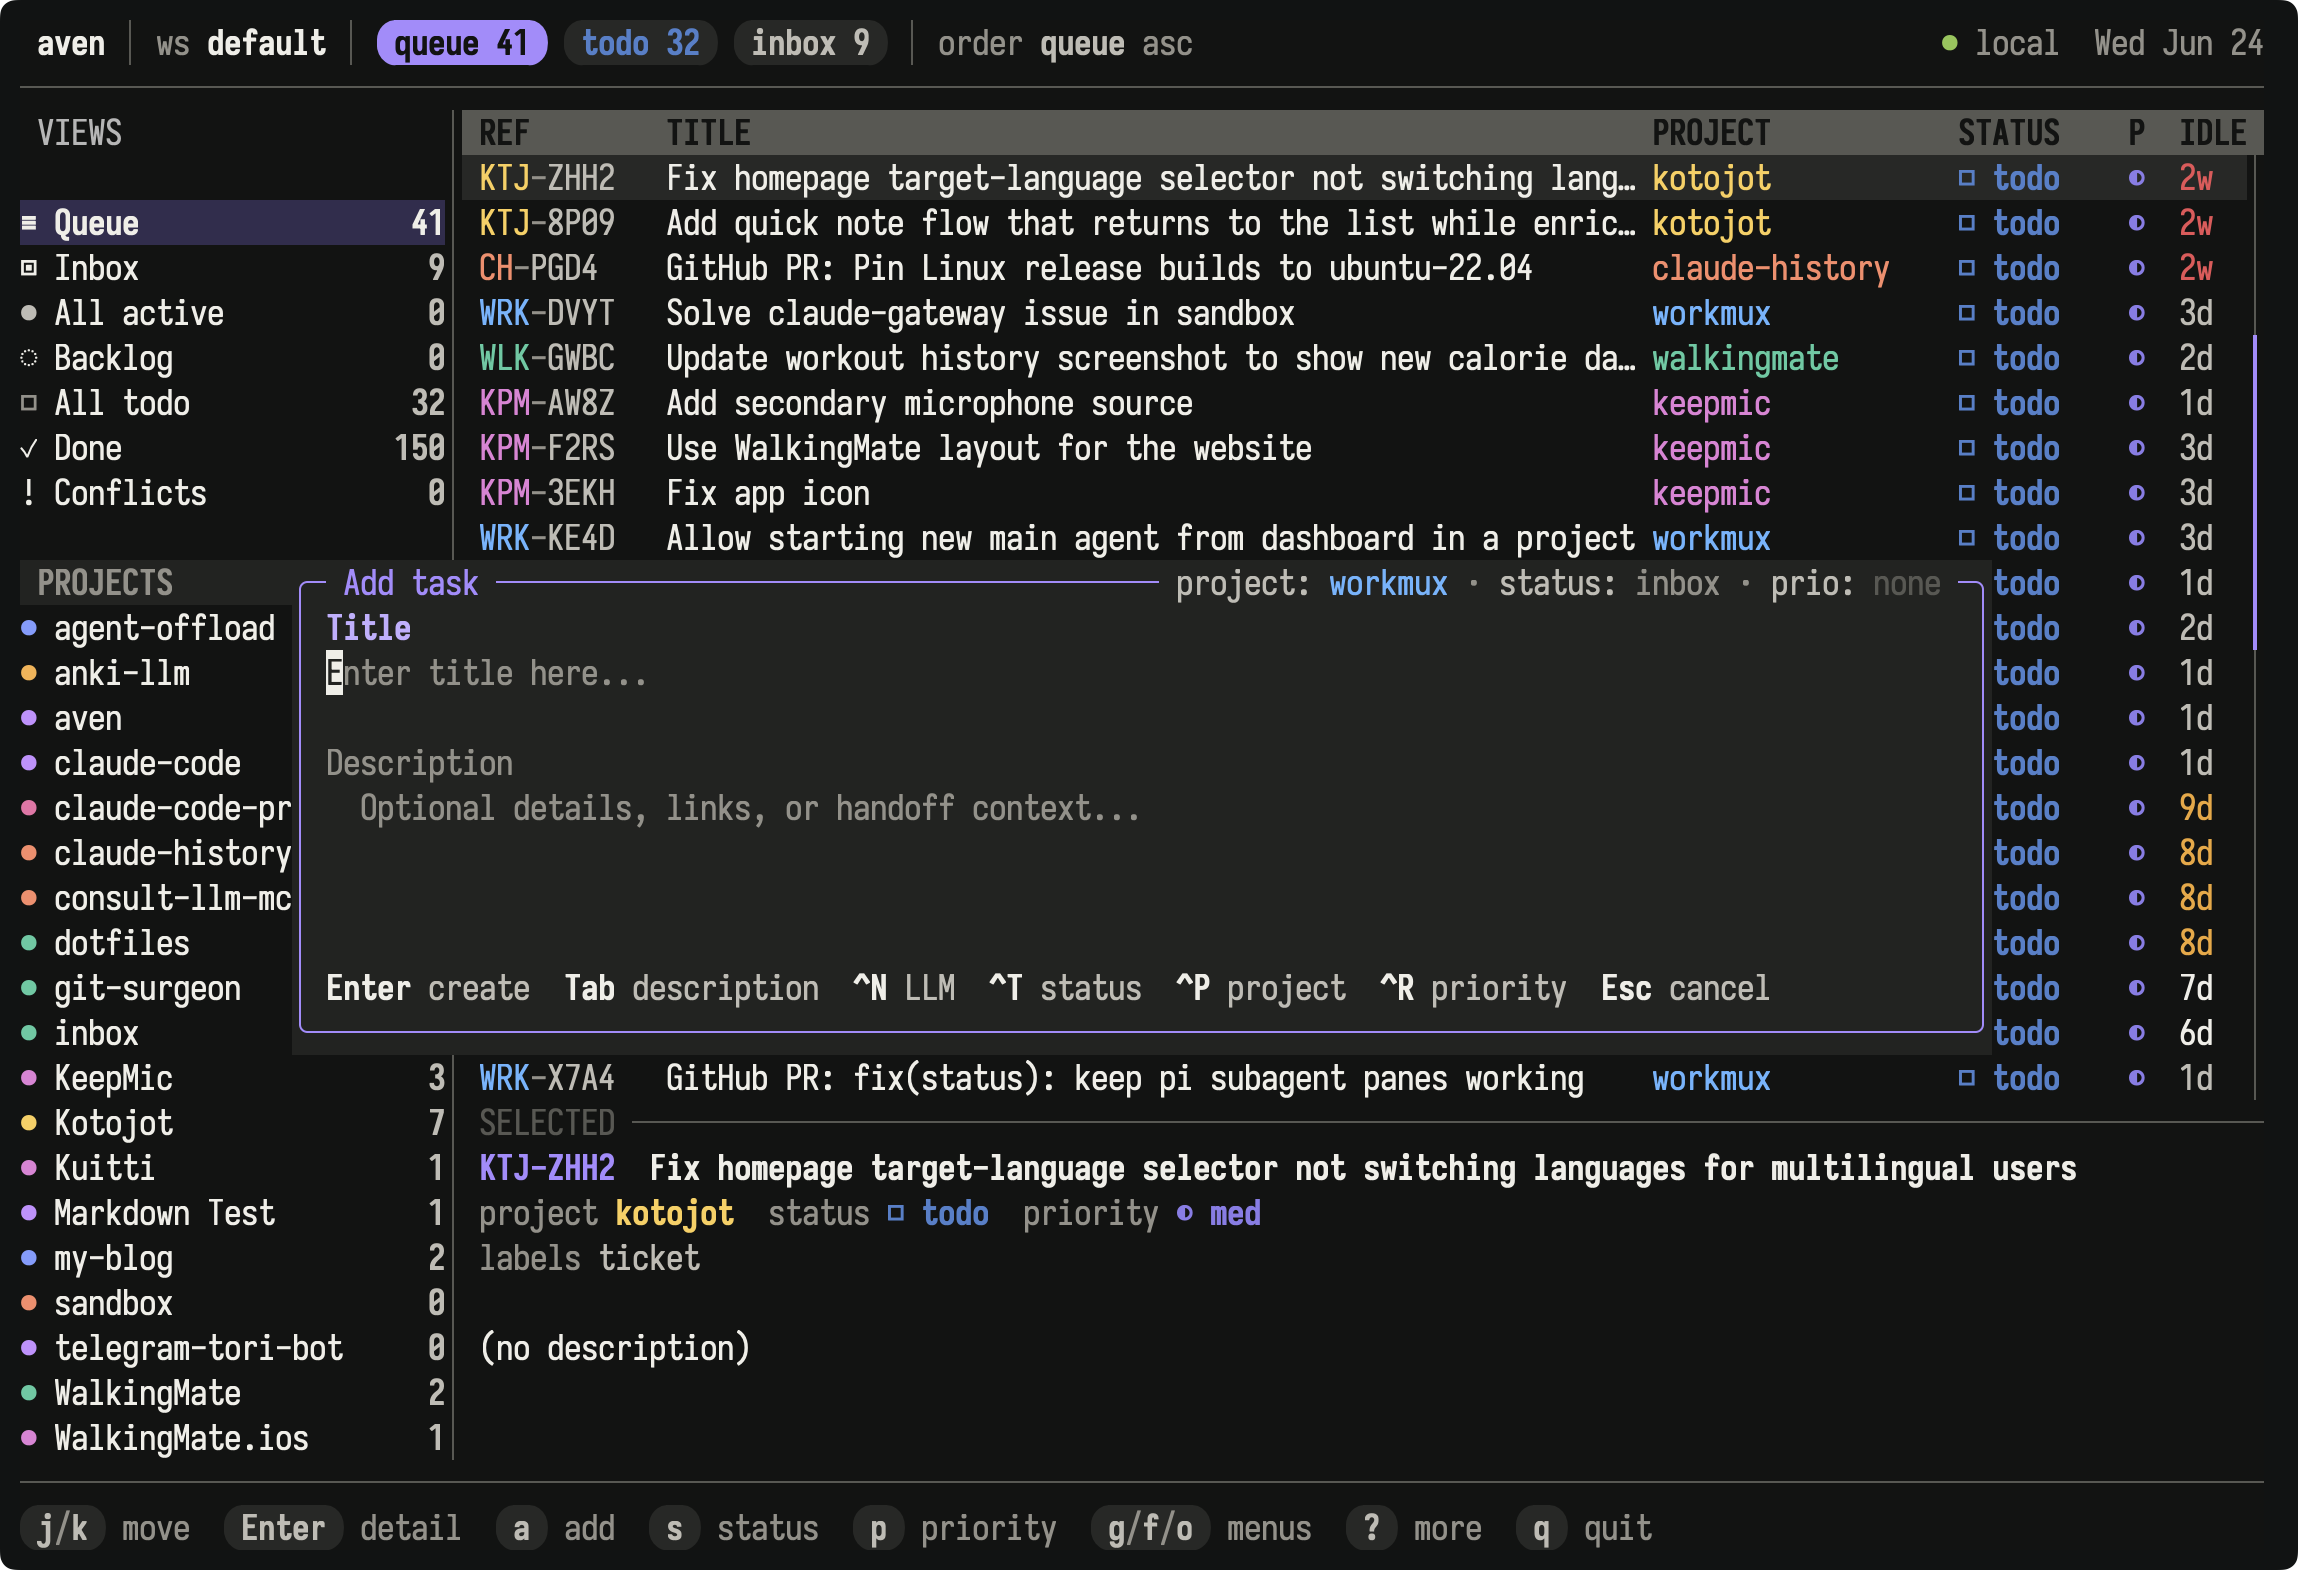
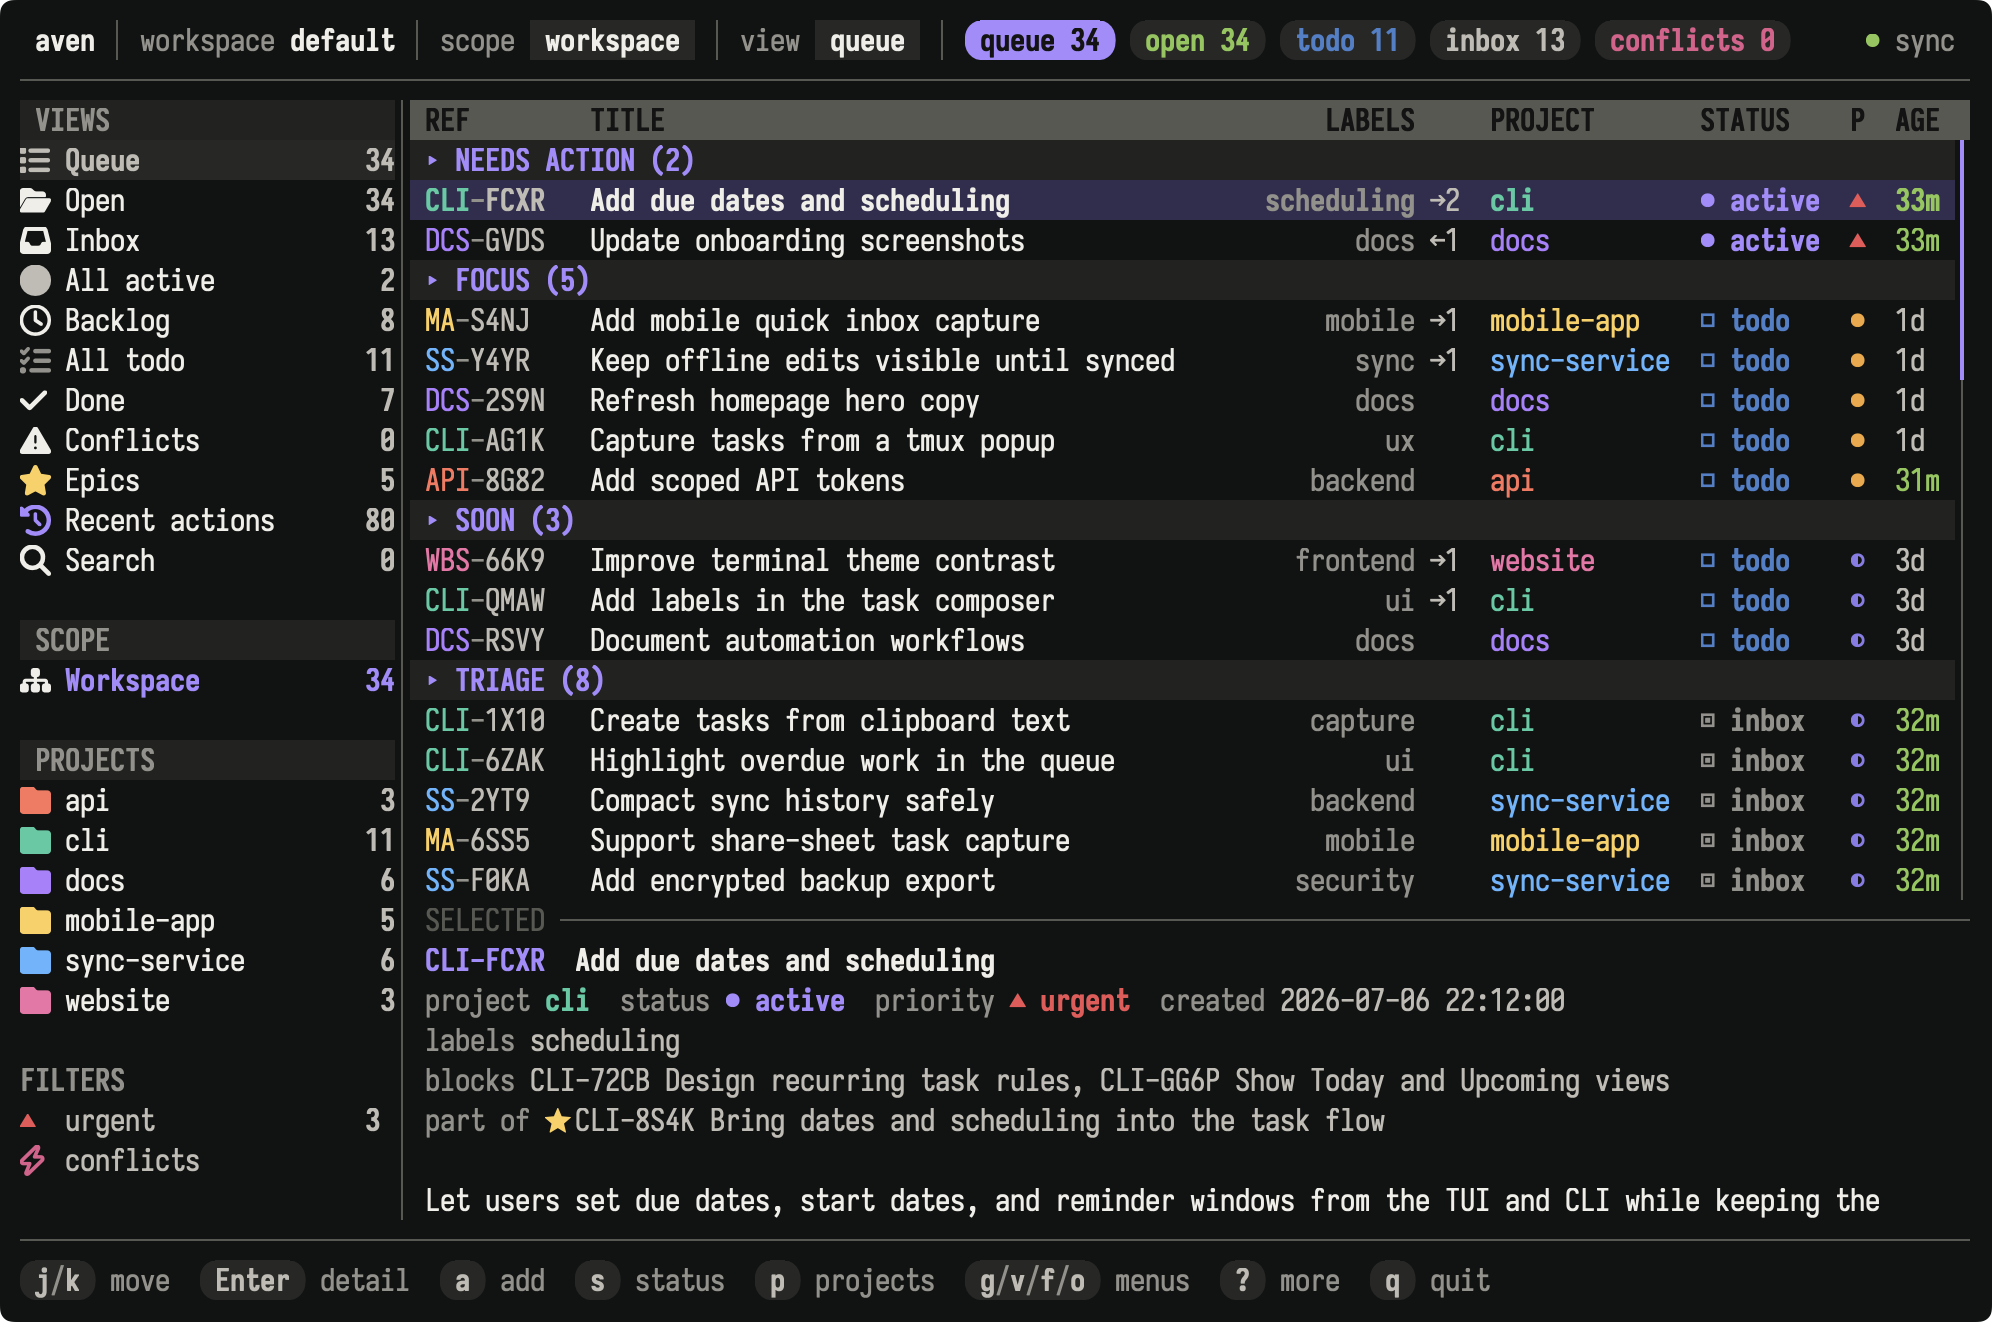
docs: update main tui screenshot
Replace the README and documentation hero screenshot with the queue view that
shows workspace scope, project grouping, labels, status, priority, and selected
task detail in one frame.

Encode the screenshot as lossless WebP for both the repository README asset and
the documentation public asset so the displayed image keeps the source quality
while staying in the existing WebP asset flow.

diff --git a/README.md b/README.md
@@ -1,49 +1,32 @@
 # aven
 
-`aven` is a local-first task manager for power users and agents. It gives you
-one overview across projects, task capture from wherever work appears,
-first-class agent workflows, workspace isolation, and a polished terminal UI.
+`aven` is a local-first task manager for power users and agents. It gives you one overview across projects, task capture from wherever work appears, first-class agent workflows, workspace isolation, and a polished terminal UI.
 
-It is currently under active development, but already works really well and I
-use it as my daily driver.
+It is currently under active development, but already works really well and I use it as my daily driver.
 
 Docs: <https://aven.raine.dev>
 
-![aven TUI showing the queue view and add-task popup](meta/tui.webp)
+![aven TUI showing the queue view across workspace projects](meta/tui.webp)
 
 ## Why aven?
 
-- **Offline-first, repo-independent storage.** Tasks live in a local SQLite
-  database, not in tracked files inside each repo. Task capture and agent updates
-  stay independent from git state, branches, worktrees, and checkouts.
+- **Offline-first, repo-independent storage.** Tasks live in a local SQLite database, not in tracked files inside each repo. Task capture and agent updates stay independent from git state, branches, worktrees, and checkouts.
 
-- **Optional self-hosted sync.** Keep the local-first workflow and make the same
-  tasks available across laptops, agents, and other devices through a server you
-  control.
+- **Optional self-hosted sync.** Keep the local-first workflow and make the same tasks available across laptops, agents, and other devices through a server you control.
 
-- **Projects map to repos.** Each repository becomes a project by default,
-  created on demand when you add its first task.
+- **Projects map to repos.** Each repository becomes a project by default, created on demand when you add its first task.
 
-- **Agent-first CLI, human-first TUI.** Agents get token-efficient output, stable
-  refs, and commands for capturing follow-up work, updating tasks, and preserving
-  context from AI coding agents. Humans get a polished, keyboard-first TUI with
-  project views, filters, sorting, task detail, undo, mouse support, and command
-  palette.
+- **Agent-first CLI, human-first TUI.** Agents get token-efficient output, stable refs, and commands for capturing follow-up work, updating tasks, and preserving context from AI coding agents. Humans get a polished, keyboard-first TUI with project views, filters, sorting, task detail, undo, mouse support, and command palette.
 
-- **Stable task refs.** Stable, unique Jira-style refs like `APP-7KQ9` work
-  offline and show the task's project at a glance.
+- **Stable task refs.** Stable, unique Jira-style refs like `APP-7KQ9` work offline and show the task's project at a glance.
 
-- **Workspaces are first class.** Personal and work tasks can share the same tool
-  without sharing the same visible task universe.
+- **Workspaces are first class.** Personal and work tasks can share the same tool without sharing the same visible task universe.
 
-- **Markdown-native tasks.** Tasks carry Markdown descriptions and append-style
-  notes, so context stays with the task.
+- **Markdown-native tasks.** Tasks carry Markdown descriptions and append-style notes, so context stays with the task.
 
-- **Fast capture from anywhere.** Natural-language task intake, tmux popup
-  capture, and agent-friendly commands make it easy to add tasks.
+- **Fast capture from anywhere.** Natural-language task intake, tmux popup capture, and agent-friendly commands make it easy to add tasks.
 
-Inspired by Taskwarrior. See
-[aven and Taskwarrior](https://aven.raine.dev/taskwarrior/).
+Inspired by Taskwarrior. See [aven and Taskwarrior](https://aven.raine.dev/taskwarrior/).
 
 ## Quick start
 
@@ -65,8 +48,7 @@ Open the TUI:
 aven tui
 ```
 
-See [Getting started](https://aven.raine.dev/getting-started/) for first-run
-usage.
+See [Getting started](https://aven.raine.dev/getting-started/) for first-run usage.
 
 ## Documentation
 
@@ -77,4 +59,3 @@ usage.
 - [TUI](https://aven.raine.dev/tui/)
 - [Agents](https://aven.raine.dev/agents/)
 - [Sync and backups](https://aven.raine.dev/sync/)
-

diff --git a/docs/src/content/docs/index.md b/docs/src/content/docs/index.md
@@ -5,7 +5,7 @@ description: A local-first task manager for power users and agents.
 
 aven is a local-first task manager for power users and agents. It gives you one overview across projects, task capture from wherever work appears, first-class agent workflows, workspace isolation, and a polished terminal UI.
 
-![aven TUI showing the queue view and add-task popup](/tui.webp)
+![aven TUI showing the queue view across workspace projects](/tui.webp)
 
 ## Why aven?
 
